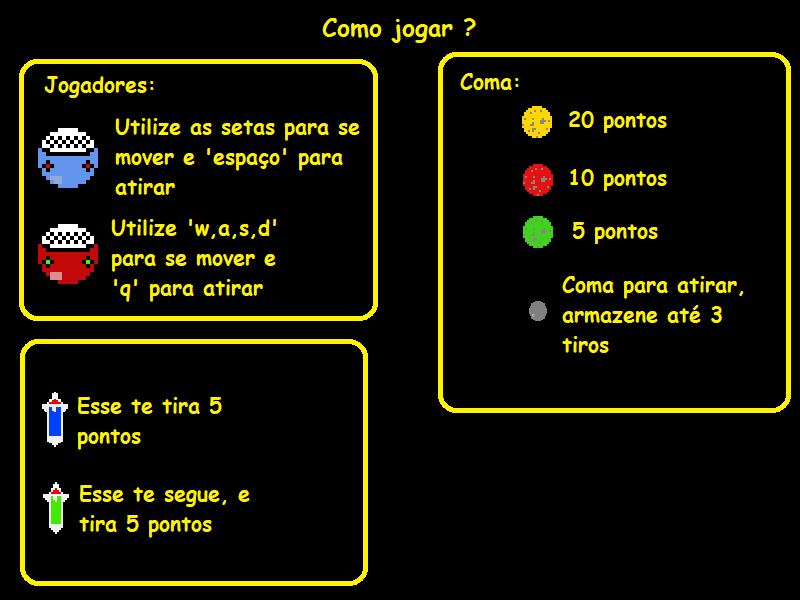
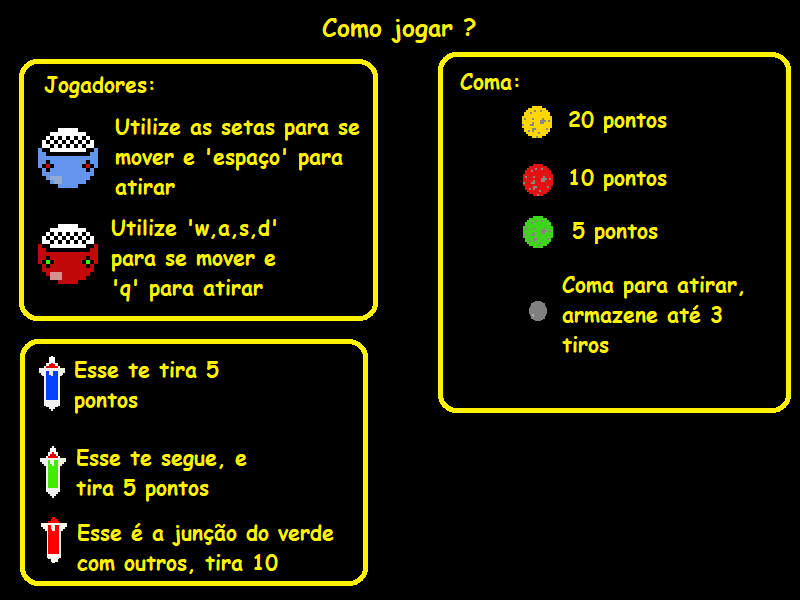
Adição do missil vermelho

Changed region(s): [[0.0312, 0.6, 0.4375, 0.96]]

diff --git a/MissileGreen.java b/MissileGreen.java
@@ -25,10 +25,11 @@ public class MissileGreen extends Missile
     {
         // Add your action code here.
         //System.out.println(myWorld.getWorldTime());
-        if(myWorld.getWorldTime() > 0){
+        if(this != null && myWorld.getWorldTime() > 0){
             setMissile();
             move();
             atWorldEdge();
+            collisionVerification();
         }
              
         
@@ -62,6 +63,25 @@ public class MissileGreen extends Missile
             selectedMonster = myWorld.getMonster2();
         }
 
+        
+    }
+    
+    public void collisionVerification() {
+        Actor missile = getOneIntersectingObject(Missile.class);
+        
+        
+        if(this.myWorld.getWorldTime() > 0){
+            if (missile != null) {
+                System.out.println(getX() + getY());
+                //myWorld.addObject(new MissileRed(myWorld), getX(), getY());
+                myWorld.removeObject(missile);
+                myWorld.removeObject(this);
+                myWorld.decrementMissile();
+                
+                
+            }
+        
+        }
         
     }
 }

diff --git a/MissileRed.java b/MissileRed.java
@@ -1,0 +1,33 @@
+import greenfoot.*;  // (World, Actor, GreenfootImage, Greenfoot and MouseInfo)
+
+/**
+ * Write a description of class MissileRed here.
+ * 
+ * @author (your name) 
+ * @version (a version number or a date)
+ */
+public class MissileRed extends Missile
+{
+    public MissileRed(MyWorld myWorld){
+        super(new GifImage("MissilVermelho.gif"),myWorld);
+        setDamage(10);
+    }
+    /**
+     * Act - do whatever the MissileRed wants to do. This method is called whenever
+     * the 'Act' or 'Run' button gets pressed in the environment.
+     */
+    public void act()
+    {
+        // Add your action code here.
+        if(myWorld.getWorldTime() > 0){
+            setMissile();
+            move();
+            atWorldEdge();
+        }
+    }
+    public void move(){
+        int x = getX();
+        int y = getY();
+        setLocation(x, y+2);
+    }
+}
